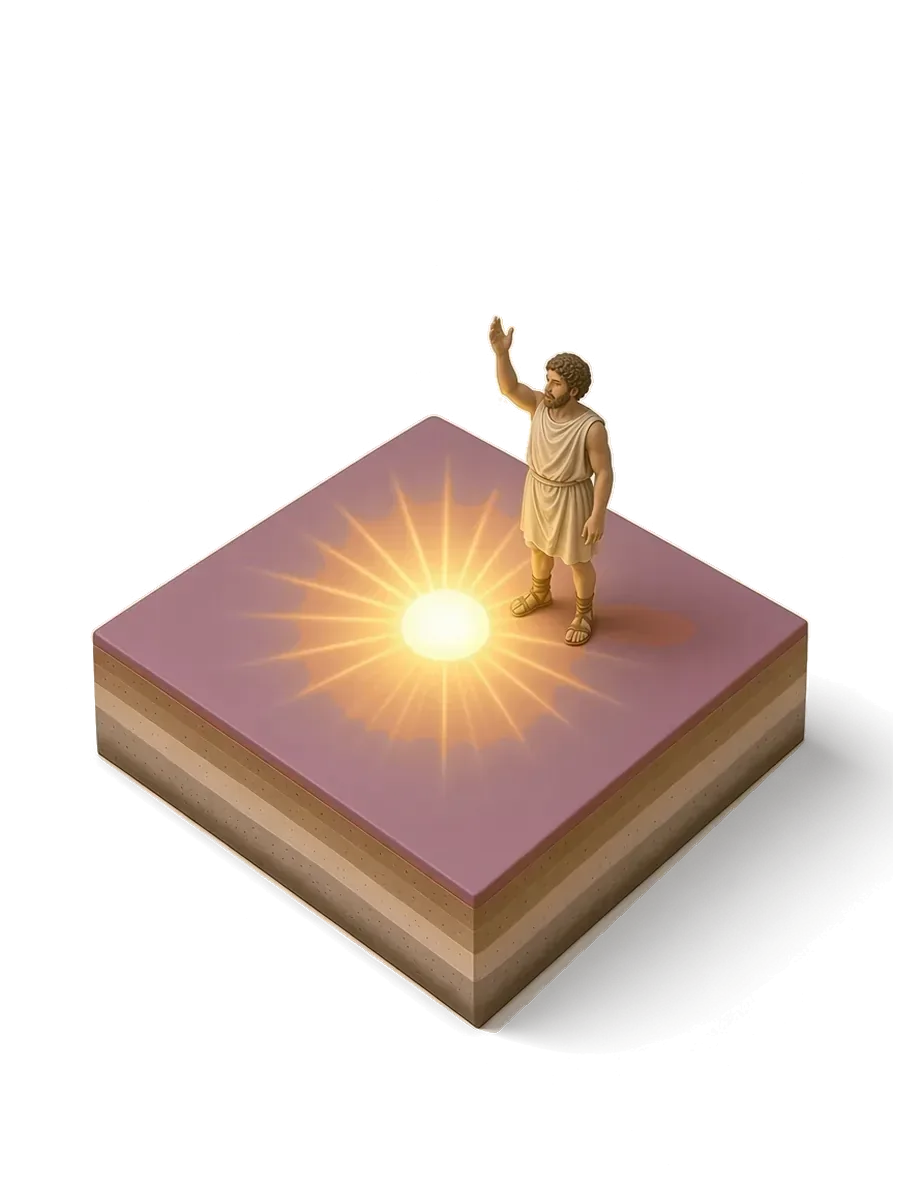
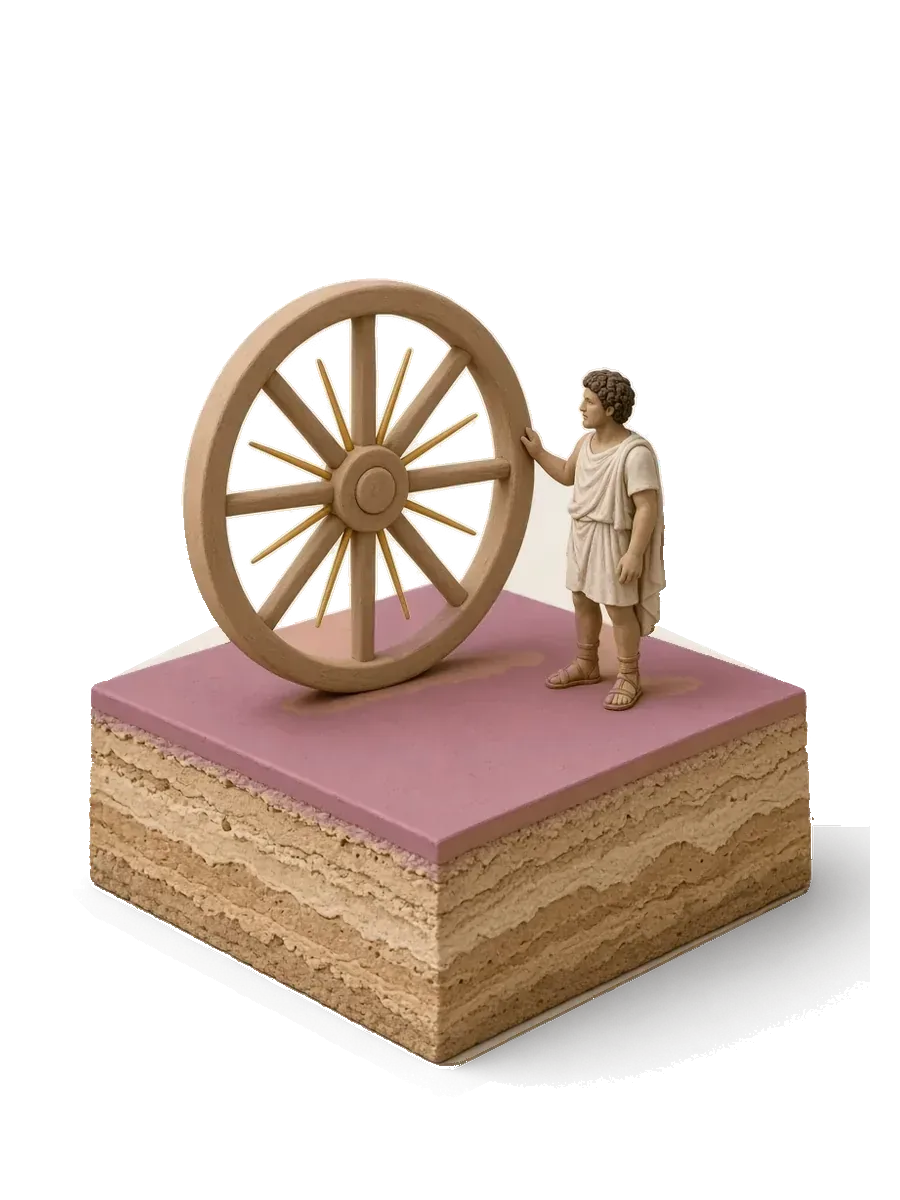
Polish 13 borderline illustrations (401–450) (#23)
* Polish borderline 401–450 illustrations

Redraw tetra, radi, sider, and ten other review cards (therap,
pharm, fict, ultim, chlor, quint, seism, caus, fess, sex). Keep
calor and stell. Floors stay on the existing accent hexes.

* Tighten cream leftovers and bright plinth rims on 13 polished 401–450 cards

The 2f3fae3 redraws left a cream leftover block outside ultim’s right soil face and a bright cream hairline along the plinth bottoms (obvious on #1A1816). All 13 redrawn cards are cleaned: punch exterior cream leftovers, unmix a 2–3px soil-edge band, keep only dark #14110E contact shadows. Subjects are unchanged.

---------

diff --git a/docs/DESIGN-LEARNINGS.md b/docs/DESIGN-LEARNINGS.md
@@ -146,3 +146,6 @@ Ranks 351–400 are the first cards cut onto alpha. The cream behind the plinth 
 ## v13 — four hundred and fifty cards
 
 Ranks 401–450 keep the transparent cut: the cream behind the plinth is gone, the contact shadow stays a dark multiplicative layer, and each floor was shifted in OKLab to a hue spread 130.6°→20.6° (a half-step offset from the 351–400 ramp) so neighbouring cards do not collapse onto the same sage, slate or mauve. After a dark-page review, cream leftover at both back corners of the macro plinth was punched out (the floor hull and contact shadow stay complete). stell's night-sky cream halo was turned into an opaque night oval with a tight edge; a little of the painted pale-blue rim of that sky remains. sider's halo could not be removed without tearing the glow or eating into the figures, so that cutout was left as first shipped.
+
+
+A later polish of the borderline cards in this batch redrew thirteen pictures and kept two. tetra could not be forced into a regular tetrahedron — the generator kept returning a square-base Egyptian pyramid — so the card is four identical amphorae, which reads as “four” at a glance. sider was redesigned as a solid dark star tablet with opaque gold studs, so the cutout has no cream halo to fight on a dark page. Cream leftover fog above some new plinths was punched only outside the diorama and its contact shadow; a second pass that treated cream-like opaque garments and marble as leftover ate holes in tunics and columns, and was discarded.
